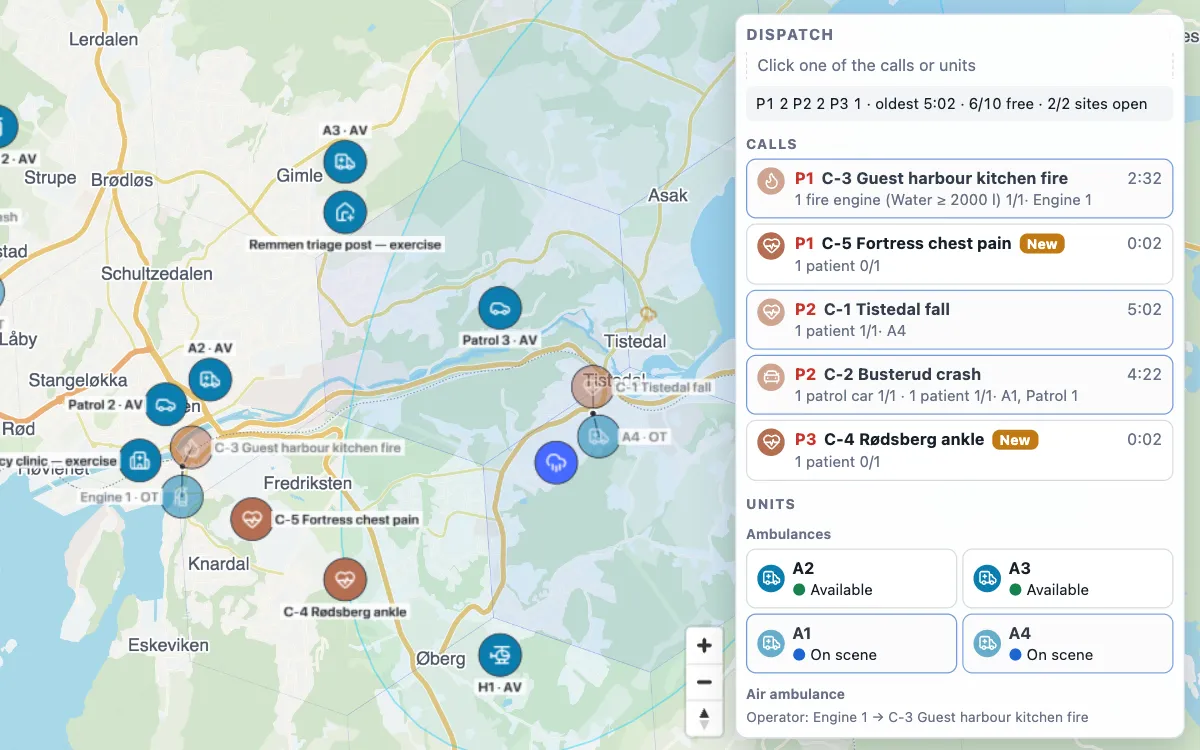
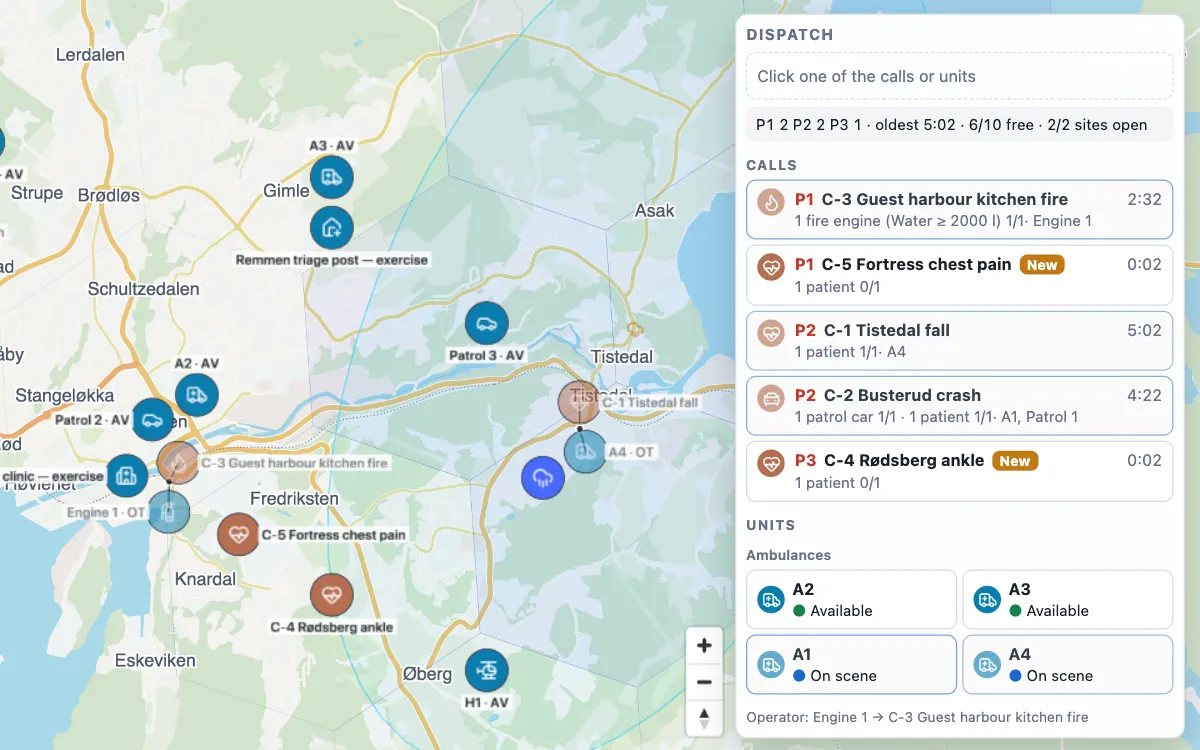
Recapture the landing and guide Einsatz screenshots for the one-scroll Dispatch panel
The card and the lists now scroll as one, so the hero's C-5 card shows its
suggested unit, Dispatch button, delivery site and other units, and the
guide's hint box is no longer squashed. The hero alt text says so.
Same method and framing as before: halden-emergency paused at 18:05:02, a
960x600 crop of a 1920x726 page at DPR 2, map dragged 340 px right.

diff --git a/apps/leitbild/src/ui/landing-content.ts b/apps/leitbild/src/ui/landing-content.ts
@@ -90,7 +90,7 @@ export const HERO_SLIDES: ReadonlyArray<HeroSlide> = [
     eyebrow: 'Emergency dispatch · Einsatz',
     title: 'Dispatch by touch',
     blurb: 'Send ambulances, patrol cars and fire engines to fictional calls on your own: tap a call, then Dispatch.',
-    alt: 'The Dispatch panel over a map of Halden: a waiting chest-pain call with its suggested unit and Dispatch button, above the list of calls.',
+    alt: 'The Dispatch panel over a map of Halden: a waiting chest-pain call with its suggested unit, Dispatch button, delivery site and other units.',
     image: 'hero-einsatz',
     link: { kind: 'demo', demo: DEMO_KEYS.dispatch, label: 'Try the dispatch demo' },
   },
